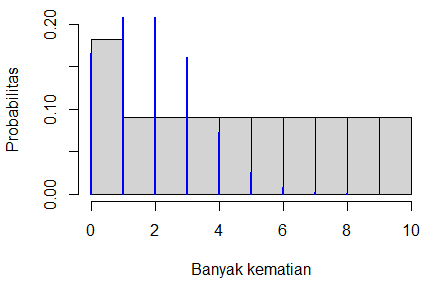
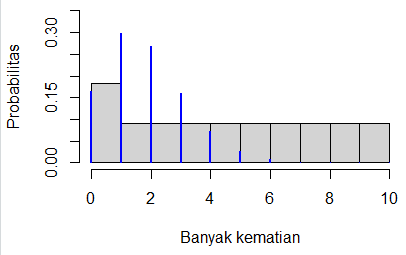
mengerjakan soal no 3

diff --git a/README.md b/README.md
@@ -23,4 +23,15 @@ Untuk soal 2 digunakan distribusi poisson karena terdapat rentang waktu tertentu
 ![2-histogram](gambar/2-histogram.png)
 ![2-tabel](gambar/2-tabel.png)
 ### h. Jelaskan banyak kematian akibat kanker tulang berdasarkan simulasi Anda. Bandingkan jawaban pada pertanyaan 2d dengan hasil simulasi Anda.
-Rata-rata probabilitas kematian dengan jumlah lebih dari 4 yang disimulasikan secara acak sebanyak 100 kali adalah 0,02. Sedangkan jawaban dari pertanyaan 2d adalah 0,03640666. Selisih yang kecil berarti jawaban dari pertanyaan 2d bisa dibilang valid
+Rata-rata probabilitas kematian dengan jumlah lebih dari 4 yang disimulasikan secara acak sebanyak 100 kali adalah 0,02. Sedangkan jawaban dari pertanyaan 2d adalah 0,03640666. Selisih yang kecil berarti jawaban dari pertanyaan 2d bisa dibilang valid.
+
+## 3. Diketahui nilai x = 3 dan v = 10. Tentukan:
+### a. Fungsi probabilitas dari distribusi Chi-Square.
+Jawab: f(x) = (1 / (2^(v/2) * Γ(v/2))) * x^(v/2 - 1) * e^(-x/2)
+-> f(x) = (1 / (2^(5) * Γ(5))) * x^(4) * e^(-x/2)
+-> f(x) = (1 / 768) * x^(4) * e^(-x/2)
+### b-c
+![3](gambar/3.png)
+### Histogram dan Tabel Nilai
+![3-histogram](gambar/3-histogram.png)
+![3-tabel](gambar/3-tabel.png)
